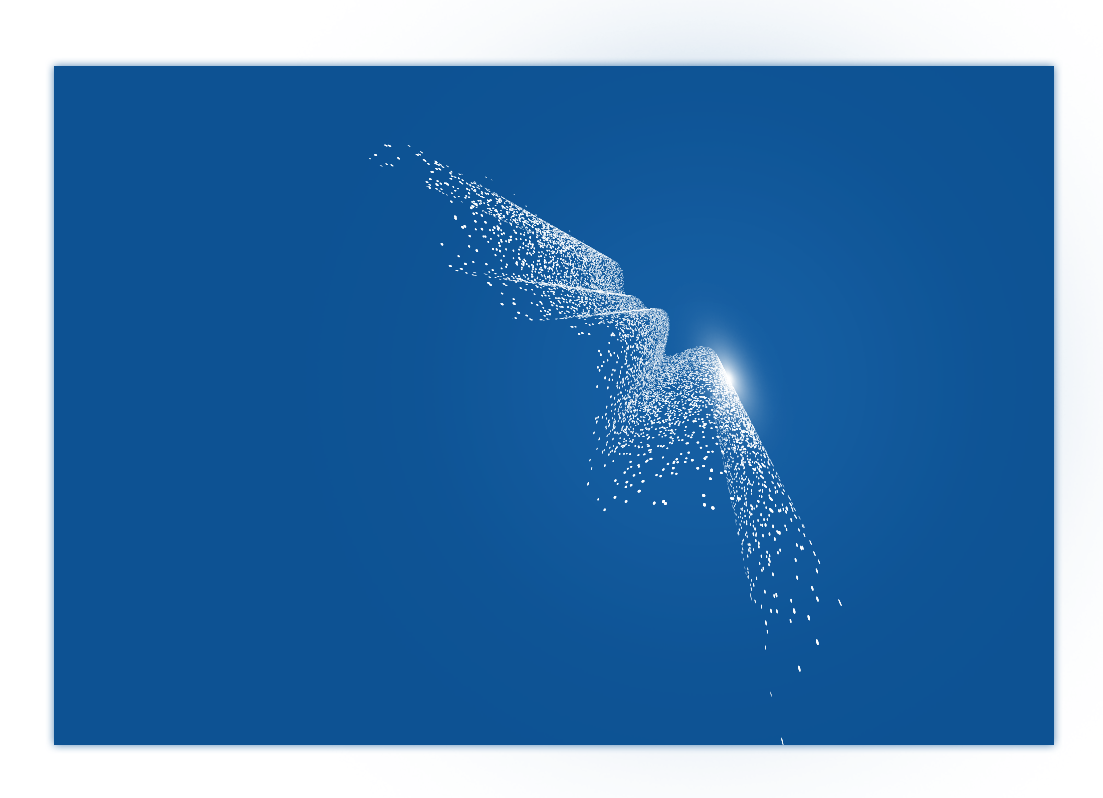
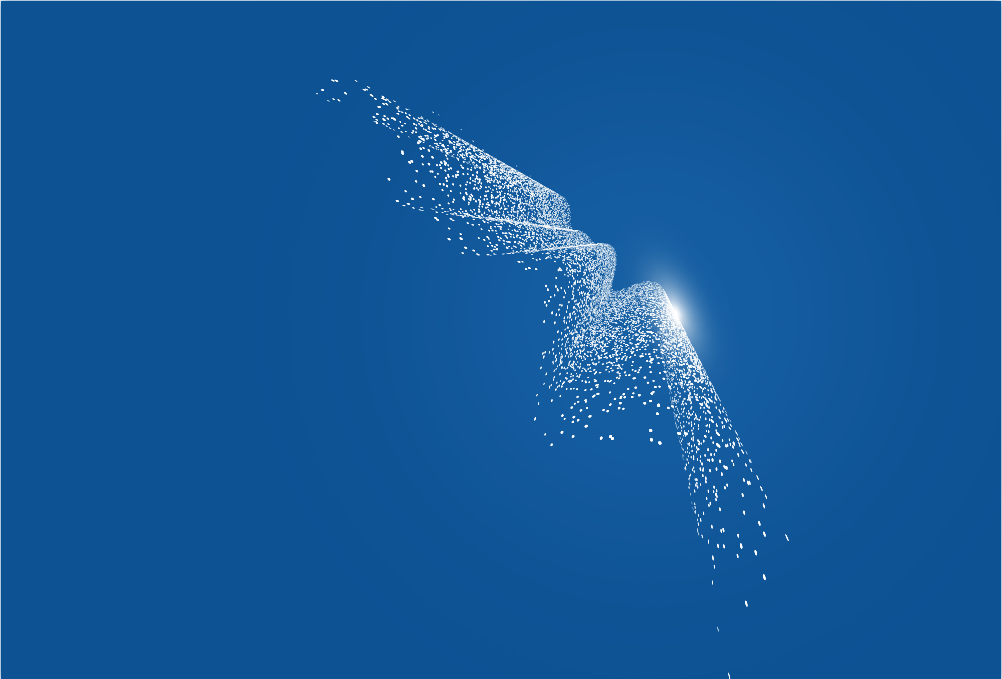
登录
登录

Changed region(s): [[0.0, 0.0, 1.0, 1.0], [0.3713, 0.1546, 0.7425, 0.7732]]

diff --git a/code/login.html b/code/login.html
@@ -1,49 +1,80 @@
-
 <!DOCTYPE html>
-<html lang="en" class="no-js">
+<html lang="en">
+<head>
+    <meta charset="utf-8">
+    <meta http-equiv="X-UA-Compatible" content="IE=edge">
+    <meta name="viewport" content="width=device-width, initial-scale=1">
+    <title>HOPE CRM</title>
 
-    <head>
+	<link rel='stylesheet' href='http://fonts.googleapis.com/css?family=PT+Sans:400,700'>
+	<link rel="stylesheet" href="css/reset.css">
+	<link rel="stylesheet" href="css/supersized.css">
+	<link rel="stylesheet" href="css/login_style.css">
+    <!--通用css-->
+    <link href="css/main.css" rel="stylesheet">
+    <!--页面专用css-->
+    <link href="css/style.css" rel="stylesheet">
+    <!--<link href="css/bootstrap.min.css" rel="stylesheet" media="screen">-->
 
-        <meta charset="utf-8">
-        <title>Fullscreen Login</title>
-        <meta name="viewport" content="width=device-width, initial-scale=1.0">
-        <meta name="description" content="">
-        <meta name="author" content="">
+</head>
+<body class="home" style="background-image: url(img/backgrounds/0.png);">
+<!-- Page Wrapper -->
+<div  style="height:100%;">
 
-        <!-- CSS -->
-        <link rel='stylesheet' href='http://fonts.googleapis.com/css?family=PT+Sans:400,700'>
-        <link rel="stylesheet" href="css/reset.css">
-        <link rel="stylesheet" href="css/supersized.css">
-        <link rel="stylesheet" href="css/login_style.css">
-
-        <!-- HTML5 shim, for IE6-8 support of HTML5 elements -->
-        <!--[if lt IE 9]>
-            <script src="http://html5shim.googlecode.com/svn/trunk/html5.js"></script>
-        <![endif]-->
-
-    </head>
-
-    <body>
-
-        <div class="page-container">
-            <h1></h1><br>
-            <form action="index.html" method="post">
-                <input type="text" name="username" class="username" placeholder="用户名">
-                <input type="password" name="password" class="password" placeholder="密码">
-                <input type="text" name="password2" class="password2" placeholder="验证码">
-                <button type="submit">登录</button>
-                <div class="error"><span>+</span></div>
-            </form>
+    <!-- Footer -->
+  <div class="container-fluid" id="main" style="min-height:400px;width: 60%;padding-top: 10%;">
+            <div id="div1" class="row-fluid center-block" style="height:400px;background-image: url(img/backgrounds/4.png);-moz-box-shadow:2px 2px 2px 5px #333333; -webkit-box-shadow:2px 2px 2px 5px #333333; box-shadow:2px 2px 5px #333333;">
+                <div class="span3" style="    width: 100%;background-color: #0e5495">	
+                   <div style="text-align: -webkit-left;"><img src="img/login_logo.png" style="margin-bottom: -20px;padding-left: 20px;"></img></div>
+				   <img src="img/login_02.png" style="width: 100%;" ></img>
+                </div>
+				<div  style="height：100%;width: 100%;">	
+                   <div  style="float: left;height：100%;    width: 50%;">	
+						<h5 style="padding-left: 20px;font-weight: 100;font-style: italic;padding-top: 40%; color: white;">深圳好多银客户关系管理系统          
+						<img src="img/login_01.png" style="    padding-left: 10px;"></img></h5>
+						
+						<h5 style="padding-left: 20px;font-weight: 100;font-style: italic;color: white;">Shenzhen many silver customer relationship management system</h5>
+					</div>
+					<div  style="float:right;height：100%;width: 50%;">	
+					   <img src="img/login_font.png" style="width: 90%;padding-top: 41%;" onclick="$('#div1').hide();$('#div2').show();" ></img>
+					</div>
+                </div>
+            </div>
+			<div id="div2" class="row-fluid center-block" style="height:400px;-moz-box-shadow:2px 2px 2px 5px #333333; -webkit-box-shadow:2px 2px 2px 5px #333333; box-shadow:2px 2px 5px #333333;">
+				<div  style="height：100%;width: 100%;">	
+                   <div  style="float: left;height：100%;    width: 50%;">	
+						<img onclick="$('#div1').show();$('#div2').hide();" src="img/login_04.png" style="width: 80%;    margin-right: -80px;"></img>
+					</div>
+					<div  style="float:right;height:400px;width: 50%;;background-color: #0e5495">	
+					 
+						<div class="page-container">	
+							 <form action="index.html" method="post">
+								<input type="text" name="username" class="username" placeholder="用户名">
+								<input type="password" name="password" class="password" style="width: 305px;" placeholder="密码">
+								<input type="text" name="password2" class="password2" placeholder="验证码">
+								<button type="submit" style="background-image: url(img/button.png);    background-position-x: center;background-position-y: center;"></button>
+								<div class="error"><span>+</span></div>
+							</form>
+						</div>
+					</div>
+                </div>
+            </div>
         </div>
-        
+</div>
 
-        <!-- Javascript -->
-        <script src="js/jquery-1.8.2.min.js"></script>
-        <script src="js/supersized.3.2.7.min.js"></script>
-        <script src="js/supersized-init.js"></script>
-        <script src="js/login_scripts.js"></script>
-
-    </body>
-
+<!-- Required Plugins and Scripts -->
+<script src="js/jquery-3.1.1.min.js"></script>
+<script src="js/jquery-migrate.min.js"></script>
+<script src="js/bootstrap.min.js"></script>
+<script src="js/pdfobject.min.js"></script>
+<script src="js/flexslider/jquery.flexslider-min.js"></script>
+<script src="js/supersized.3.2.7.min.js"></script>
+<script src="js/supersized-init.js"></script>
+<script src="js/login_scripts.js"></script>
+<!--<script src="js/owl.carousel/owl.carousel.min.js"></script>-->
+<!--<script src="js/jquery-countTo/jquery.countTo.js"></script>-->
+<!--<script src="js/jquery.waypoints.min.js"></script>-->
+<!--<script src="js/slicknav/jquery.slicknav.min.js"></script>-->
+<!--<script src="js/lightcase/vendor/jQuery/jquery.events.touch.js"></script>-->
+</body>
 </html>
-

diff --git a/code/js/supersized-init.js b/code/js/supersized-init.js
@@ -20,9 +20,9 @@ jQuery(function($){
         // Components
         slide_links        : 'blank',    // Individual links for each slide (Options: false, 'num', 'name', 'blank')
         slides             : [    // Slideshow Images
-                                 {image : 'img/backgrounds/1.png'},
-                                 {image : 'img/backgrounds/2.png'},
-                                 {image : 'img/backgrounds/3.png'}
+                                 {image : 'img/backgrounds/0.png'},
+                                 {image : 'img/backgrounds/0.png'},
+                                 {image : 'img/backgrounds/0.png'}
                              ]
 
     });

diff --git a/code/js/login_scripts.js b/code/js/login_scripts.js
@@ -1,6 +1,9 @@
 
 jQuery(document).ready(function() {
 
+
+	$("#div1").show();
+	$("#div2").hide();
     $('.page-container form').submit(function(){;
         var username = $(this).find('.username').val();
         var password = $(this).find('.password').val();
@@ -37,5 +40,4 @@ jQuery(document).ready(function() {
     $('.page-container form .username, .page-container form .password').keyup(function(){
         $(this).parent().find('.error').fadeOut('fast');
     });
-
 });
